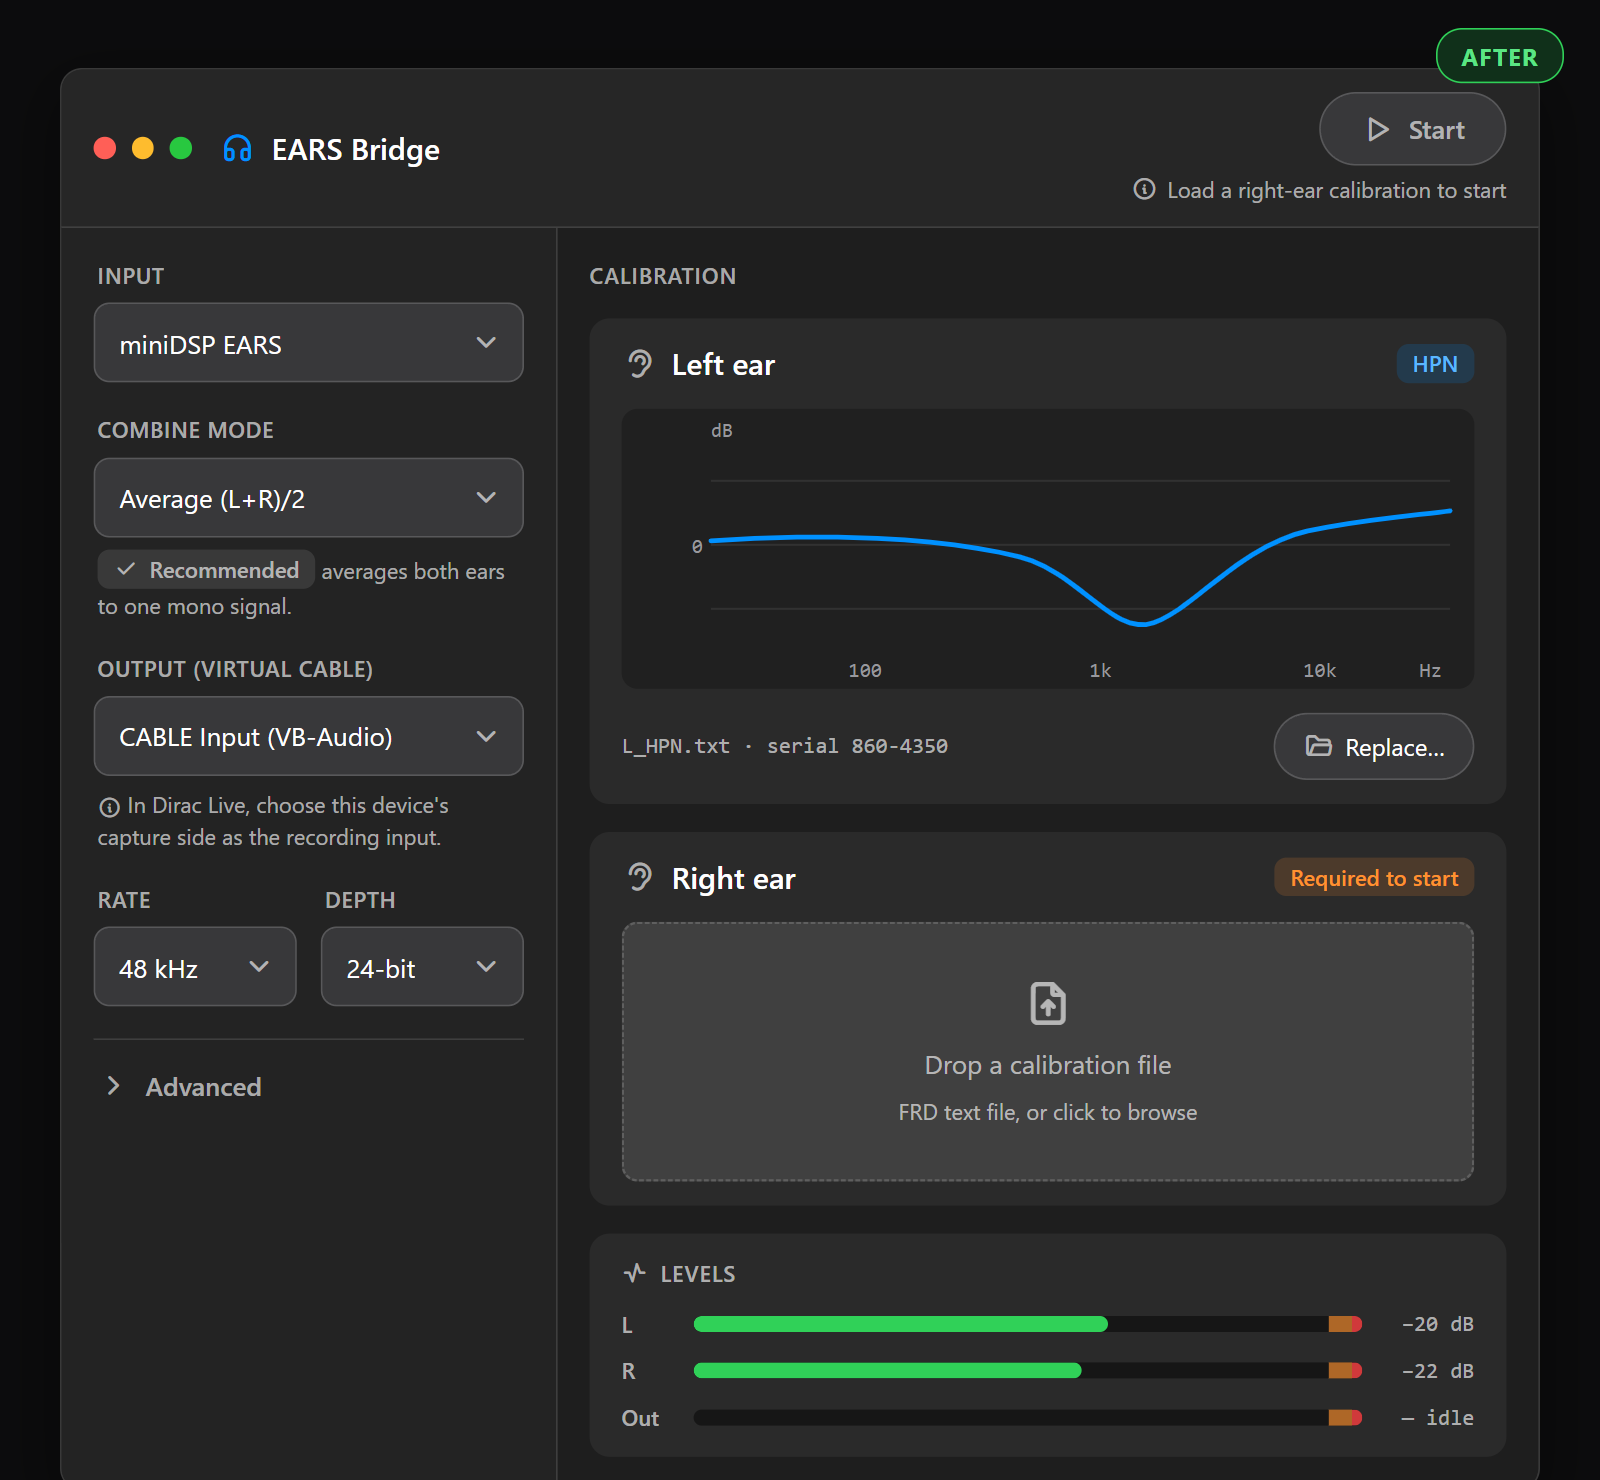
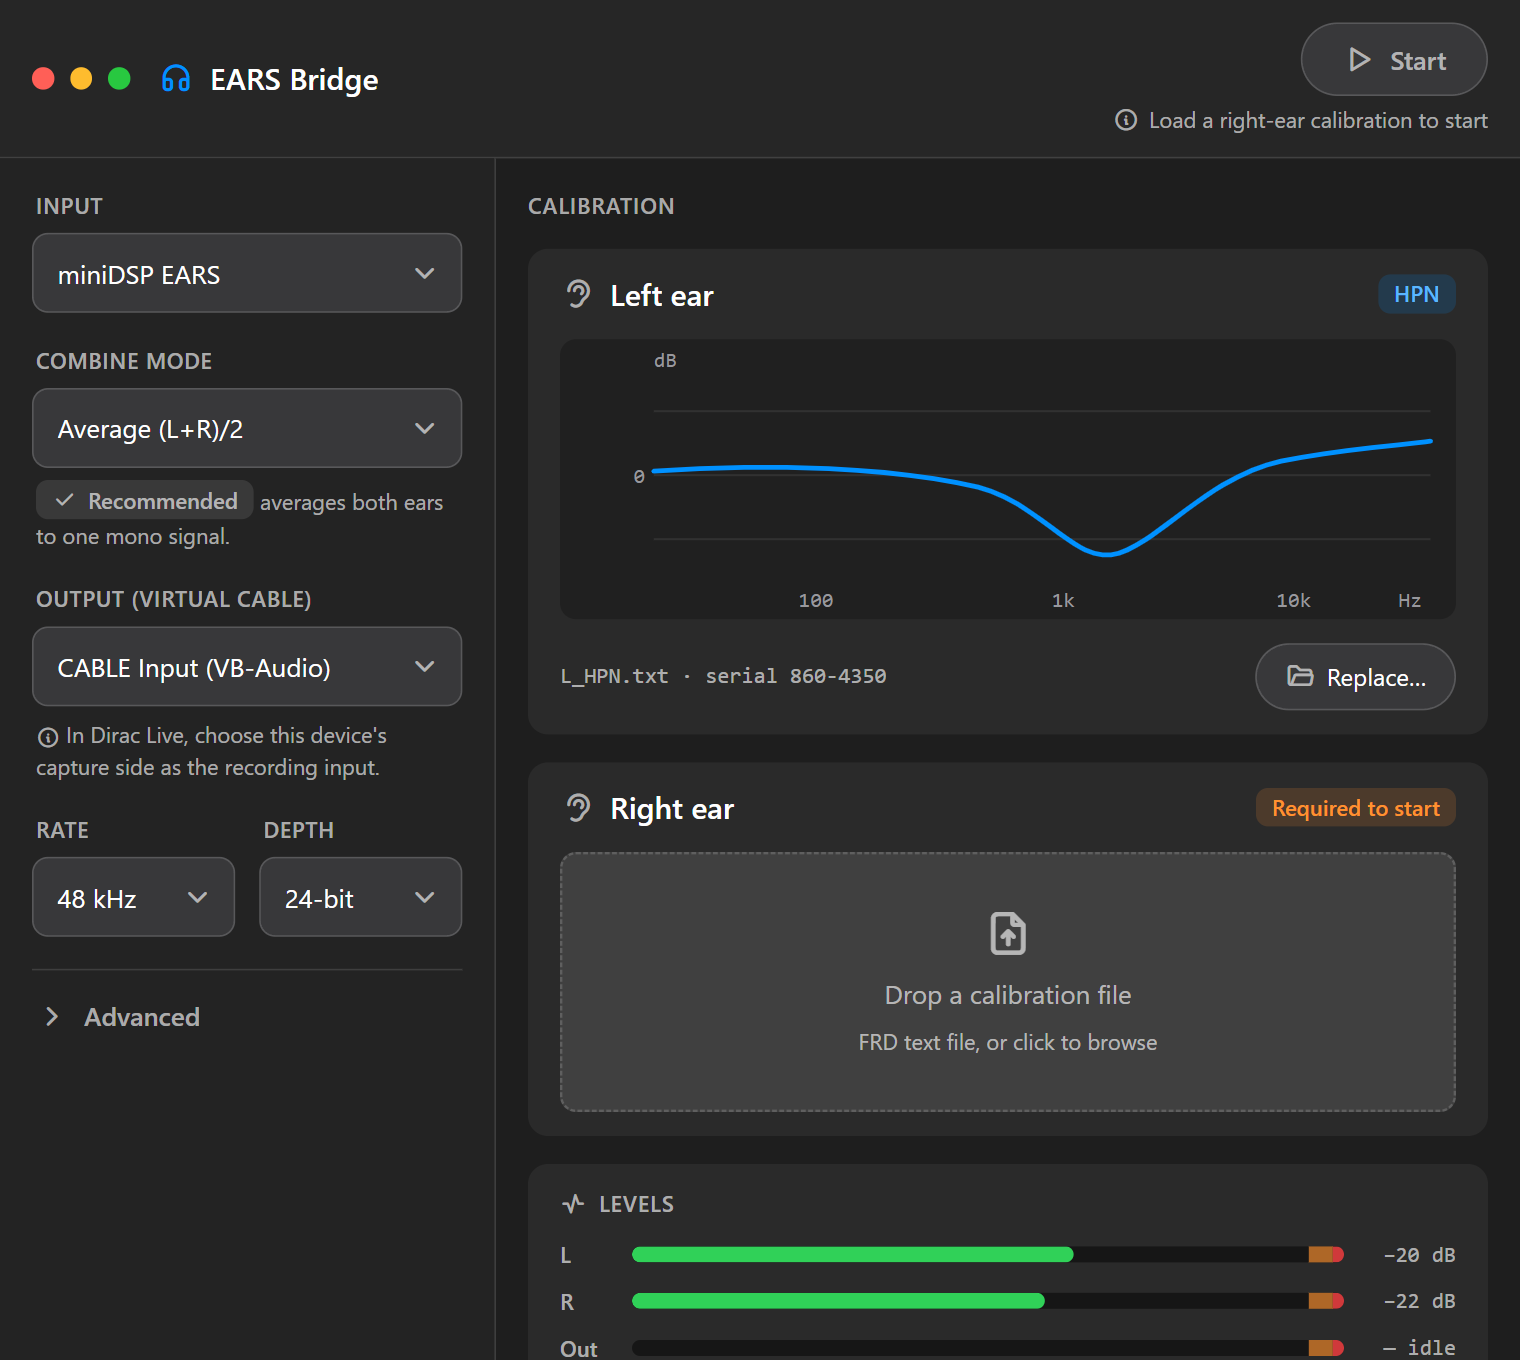
site: remove the dark frame/gutter around the demo app — re-render before/after edge-to-edge so the app fills the rounded slider, labels as overlays, GIF rebuilt; cache-bust images

diff --git a/docs/mockups/frames.html b/docs/mockups/frames.html
@@ -4,18 +4,15 @@
 <style>
   :root{ font-family:-apple-system,BlinkMacSystemFont,"Segoe UI",Roboto,Helvetica,Arial,sans-serif; }
   *{ box-sizing:border-box; margin:0; padding:0; }
-  body{ background:#0c0c0d; display:flex; }
-  .cell{ width:800px; height:740px; position:relative; overflow:hidden; flex-shrink:0; display:flex; justify-content:center; align-items:flex-start; padding-top:34px; }
-  .fpill{ position:absolute; top:14px; left:18px; z-index:5; font-size:12px; font-weight:700; letter-spacing:.5px; padding:5px 12px; border-radius:13px; }
-  .fpill.before{ background:#3a1414; color:#ff8a80; border:1px solid #ff453a; }
-  .fpill.after{ background:#10301a; color:#5be584; border:1px solid #30d158; left:auto; right:18px; }
+  body{ display:flex; }
+  .cell{ width:760px; height:680px; position:relative; overflow:hidden; flex-shrink:0; }
 
-  /* BEFORE app */
-  .win{ width:740px; border-radius:11px; overflow:hidden; box-shadow:0 10px 30px rgba(0,0,0,.4); }
-  .b .bar{ height:36px; display:flex; align-items:center; padding:0 12px; background:#2b2b2b; color:#cfcfcf; font-size:13px; }
+  /* BEFORE app — fills the cell edge to edge */
+  .b{ width:760px; height:680px; display:flex; flex-direction:column; background:#1a1a1a; }
+  .b .bar{ height:36px; display:flex; align-items:center; padding:0 14px; background:#2b2b2b; color:#cfcfcf; font-size:13px; flex-shrink:0; }
   .b .bar .ico{ width:15px; height:15px; border-radius:4px; margin-right:8px; background:#3a3a3a; }
   .b .winctl{ margin-left:auto; color:#9a9a9a; letter-spacing:6px; }
-  .b .body{ background:#1a1a1a; padding:16px 18px 18px; color:#cfcfcf; }
+  .b .body{ flex:1; background:#1a1a1a; padding:16px 20px 18px; color:#cfcfcf; }
   .b .lbl{ font-size:10.5px; letter-spacing:.6px; color:#6f6f6f; margin:13px 0 6px; text-transform:uppercase; }
   .b .lbl:first-child{ margin-top:0; }
   .b .ddl{ background:#222; border:1px solid #2c2c2c; border-radius:5px; height:36px; display:flex; align-items:center; padding:0 12px; color:#cdcdcd; font-size:13.5px; }
@@ -39,24 +36,24 @@
   .b .adv{ font-size:12.5px; color:#9a9a9a; margin-top:13px; }
   .curve{ display:block; }
 
-  /* AFTER app (prototype, dark, static) */
-  .eb-stage{
+  /* AFTER app (prototype, dark) — fills the cell edge to edge */
+  .eb{
     --bg:#1E1E1E; --surface:#2A2A2A; --rail:#232323; --ctrl:#38383A; --bar:#262626; --plot:#202020;
     --track:#161616; --grid:rgba(255,255,255,.08); --chip-bg:rgba(255,255,255,.10); --info-tx:#5AB7FF; --info-bg:rgba(0,145,255,.16);
     --sep:rgba(255,255,255,.12); --sep2:rgba(255,255,255,.16);
     --tx:#FFFFFF; --tx2:rgba(255,255,255,.62); --axis:#98989D;
     --accent:#0091FF; --ok:#30D158; --warn:#FF9230; --err:#FF4245;
-    --sans:-apple-system,"SF Pro Text","Segoe UI",system-ui,Roboto,sans-serif; --mono:"SF Mono","Consolas",ui-monospace,monospace; width:740px; }
-  .eb{ background:var(--bg); color:var(--tx); font-family:var(--sans); font-size:13px; line-height:1.4; border:1px solid var(--sep); border-radius:11px; overflow:hidden; box-shadow:0 10px 30px rgba(0,0,0,.4); }
+    --sans:-apple-system,"SF Pro Text","Segoe UI",system-ui,Roboto,sans-serif; --mono:"SF Mono","Consolas",ui-monospace,monospace;
+    width:760px; height:680px; display:flex; flex-direction:column; background:var(--bg); color:var(--tx); font-family:var(--sans); font-size:13px; line-height:1.4; }
   .eb *{ box-sizing:border-box; margin:0; }
-  .eb-bar{ display:flex; align-items:center; gap:10px; padding:11px 16px; background:var(--bar); border-bottom:1px solid var(--sep); }
+  .eb-bar{ display:flex; align-items:center; gap:10px; padding:11px 16px; background:var(--bar); border-bottom:1px solid var(--sep); flex-shrink:0; }
   .eb-dots{ display:flex; gap:8px; } .eb-dots i{ width:11px; height:11px; border-radius:50%; }
   .eb-brand{ display:flex; align-items:center; gap:8px; font-size:15px; font-weight:600; margin-left:4px; } .eb-brand .ti{ color:var(--accent); font-size:18px; }
   .eb-spacer{ flex:1; }
   .eb-xport{ display:flex; flex-direction:column; align-items:flex-end; gap:4px; }
   .eb-primary{ display:inline-flex; align-items:center; gap:8px; font:600 13px var(--sans); color:var(--tx2); background:var(--ctrl); border:1px solid var(--sep2); border-radius:999px; padding:9px 20px; } .eb-primary .ti{ font-size:16px; }
   .eb-xport-note{ display:inline-flex; align-items:center; gap:5px; font-size:11px; color:var(--tx2); } .eb-xport-note .ti{ font-size:13px; }
-  .eb-two{ display:grid; grid-template-columns:248px 1fr; }
+  .eb-two{ flex:1; display:grid; grid-template-columns:248px 1fr; }
   .eb-rail{ padding:16px; border-right:1px solid var(--sep); display:flex; flex-direction:column; gap:16px; background:var(--rail); }
   .eb-pane{ padding:16px; display:flex; flex-direction:column; gap:14px; }
   .eb-eyebrow{ font-size:11px; font-weight:600; letter-spacing:.04em; color:var(--tx2); text-transform:uppercase; }
@@ -87,10 +84,8 @@
   .eb-axis{ font-family:var(--mono); font-size:10px; fill:var(--axis); }
 </style></head>
 <body>
-  <!-- BEFORE frame -->
   <div class="cell">
-    <span class="fpill before">BEFORE</span>
-    <div class="win b">
+    <div class="b">
       <div class="bar"><span class="ico"></span>EARS Bridge<span class="winctl">&#9472; &#9633; &#10005;</span></div>
       <div class="body">
         <div class="lbl">Input (EARS)</div>
@@ -123,54 +118,50 @@
     </div>
   </div>
 
-  <!-- AFTER frame -->
   <div class="cell">
-    <span class="fpill after">AFTER</span>
-    <div class="eb-stage">
-      <div class="eb">
-        <header class="eb-bar">
-          <span class="eb-dots"><i style="background:#ff5f57"></i><i style="background:#febc2e"></i><i style="background:#28c840"></i></span>
-          <span class="eb-brand"><i class="ti ti-headphones"></i>EARS Bridge</span>
-          <span class="eb-spacer"></span>
-          <div class="eb-xport"><button class="eb-primary"><i class="ti ti-player-play"></i><span>Start</span></button>
-            <span class="eb-xport-note"><i class="ti ti-info-circle"></i><span>Load a right-ear calibration to start</span></span></div>
-        </header>
-        <div class="eb-two">
-          <div class="eb-rail">
-            <div><label class="eb-field-l">Input</label><div class="eb-selwrap"><select><option>miniDSP EARS</option></select><i class="ti ti-chevron-down chev"></i></div></div>
-            <div><label class="eb-field-l">Combine mode</label><div class="eb-selwrap"><select><option>Average (L+R)/2</option></select><i class="ti ti-chevron-down chev"></i></div>
-              <p class="eb-help"><span class="eb-rec"><i class="ti ti-check"></i>Recommended</span> averages both ears to one mono signal.</p></div>
-            <div><label class="eb-field-l">Output (virtual cable)</label><div class="eb-selwrap"><select><option>CABLE Input (VB-Audio)</option></select><i class="ti ti-chevron-down chev"></i></div>
-              <p class="eb-help"><i class="ti ti-info-circle"></i>In Dirac Live, choose this device&#39;s capture side as the recording input.</p></div>
-            <div class="eb-row2">
-              <div><label class="eb-field-l">Rate</label><div class="eb-selwrap"><select><option>48 kHz</option></select><i class="ti ti-chevron-down chev"></i></div></div>
-              <div><label class="eb-field-l">Depth</label><div class="eb-selwrap"><select><option>24-bit</option></select><i class="ti ti-chevron-down chev"></i></div></div>
-            </div>
-            <button class="eb-disc"><i class="ti ti-chevron-right"></i>Advanced</button>
+    <div class="eb">
+      <header class="eb-bar">
+        <span class="eb-dots"><i style="background:#ff5f57"></i><i style="background:#febc2e"></i><i style="background:#28c840"></i></span>
+        <span class="eb-brand"><i class="ti ti-headphones"></i>EARS Bridge</span>
+        <span class="eb-spacer"></span>
+        <div class="eb-xport"><button class="eb-primary"><i class="ti ti-player-play"></i><span>Start</span></button>
+          <span class="eb-xport-note"><i class="ti ti-info-circle"></i><span>Load a right-ear calibration to start</span></span></div>
+      </header>
+      <div class="eb-two">
+        <div class="eb-rail">
+          <div><label class="eb-field-l">Input</label><div class="eb-selwrap"><select><option>miniDSP EARS</option></select><i class="ti ti-chevron-down chev"></i></div></div>
+          <div><label class="eb-field-l">Combine mode</label><div class="eb-selwrap"><select><option>Average (L+R)/2</option></select><i class="ti ti-chevron-down chev"></i></div>
+            <p class="eb-help"><span class="eb-rec"><i class="ti ti-check"></i>Recommended</span> averages both ears to one mono signal.</p></div>
+          <div><label class="eb-field-l">Output (virtual cable)</label><div class="eb-selwrap"><select><option>CABLE Input (VB-Audio)</option></select><i class="ti ti-chevron-down chev"></i></div>
+            <p class="eb-help"><i class="ti ti-info-circle"></i>In Dirac Live, choose this device&#39;s capture side as the recording input.</p></div>
+          <div class="eb-row2">
+            <div><label class="eb-field-l">Rate</label><div class="eb-selwrap"><select><option>48 kHz</option></select><i class="ti ti-chevron-down chev"></i></div></div>
+            <div><label class="eb-field-l">Depth</label><div class="eb-selwrap"><select><option>24-bit</option></select><i class="ti ti-chevron-down chev"></i></div></div>
           </div>
-          <div class="eb-pane">
-            <h2 class="eb-eyebrow">Calibration</h2>
-            <section class="eb-card">
-              <div class="eb-card-h"><i class="ti ti-ear"></i><h3 class="name">Left ear</h3><span class="eb-spacer"></span><span class="eb-info">HPN</span></div>
-              <svg class="eb-plot" viewBox="0 0 420 140" preserveAspectRatio="none" role="img" aria-label="Left ear response">
-                <line x1="44" y1="36" x2="408" y2="36" stroke="var(--grid)"/><line x1="44" y1="68" x2="408" y2="68" stroke="var(--grid)"/><line x1="44" y1="100" x2="408" y2="100" stroke="var(--grid)"/>
-                <path d="M44 66 C 100 62, 156 64, 196 74 C 226 82, 242 114, 262 107 C 282 100, 304 69, 338 61 C 372 54, 396 53, 408 51" fill="none" stroke="var(--accent)" stroke-width="2.4" stroke-linejoin="round" stroke-linecap="round"/>
-                <text class="eb-axis" x="44" y="14">dB</text><text class="eb-axis" x="40" y="72" text-anchor="end">0</text>
-                <text class="eb-axis" x="120" y="134" text-anchor="middle">100</text><text class="eb-axis" x="236" y="134" text-anchor="middle">1k</text><text class="eb-axis" x="344" y="134" text-anchor="middle">10k</text><text class="eb-axis" x="404" y="134" text-anchor="end">Hz</text>
-              </svg>
-              <div class="eb-meta"><span class="eb-fname">L_HPN.txt · serial 860-4350</span><button class="eb-btn"><i class="ti ti-folder-open"></i>Replace…</button></div>
-            </section>
-            <section class="eb-card">
-              <div class="eb-card-h"><i class="ti ti-ear"></i><h3 class="name">Right ear</h3><span class="eb-spacer"></span><span class="eb-req">Required to start</span></div>
-              <button class="eb-drop"><i class="ti ti-file-upload"></i><span>Drop a calibration file</span><span class="d2">FRD text file, or click to browse</span></button>
-            </section>
-            <section class="eb-monitor">
-              <h3 class="eb-mhead"><i class="ti ti-activity" style="font-size:13px"></i>Levels</h3>
-              <div class="eb-meter"><span class="ml">L</span><div class="eb-mtrack"><div class="eb-zamber"></div><div class="eb-zred"></div><div class="eb-mfill" style="width:62%"></div></div><span class="eb-mdb">−20 dB</span></div>
-              <div class="eb-meter"><span class="ml">R</span><div class="eb-mtrack"><div class="eb-zamber"></div><div class="eb-zred"></div><div class="eb-mfill" style="width:58%"></div></div><span class="eb-mdb">−22 dB</span></div>
-              <div class="eb-meter"><span class="ml">Out</span><div class="eb-mtrack"><div class="eb-zamber"></div><div class="eb-zred"></div><div class="eb-mfill" style="width:0"></div></div><span class="eb-mdb">— idle</span></div>
-            </section>
-          </div>
+          <button class="eb-disc"><i class="ti ti-chevron-right"></i>Advanced</button>
+        </div>
+        <div class="eb-pane">
+          <h2 class="eb-eyebrow">Calibration</h2>
+          <section class="eb-card">
+            <div class="eb-card-h"><i class="ti ti-ear"></i><h3 class="name">Left ear</h3><span class="eb-spacer"></span><span class="eb-info">HPN</span></div>
+            <svg class="eb-plot" viewBox="0 0 420 140" preserveAspectRatio="none" role="img" aria-label="Left ear response">
+              <line x1="44" y1="36" x2="408" y2="36" stroke="var(--grid)"/><line x1="44" y1="68" x2="408" y2="68" stroke="var(--grid)"/><line x1="44" y1="100" x2="408" y2="100" stroke="var(--grid)"/>
+              <path d="M44 66 C 100 62, 156 64, 196 74 C 226 82, 242 114, 262 107 C 282 100, 304 69, 338 61 C 372 54, 396 53, 408 51" fill="none" stroke="var(--accent)" stroke-width="2.4" stroke-linejoin="round" stroke-linecap="round"/>
+              <text class="eb-axis" x="44" y="14">dB</text><text class="eb-axis" x="40" y="72" text-anchor="end">0</text>
+              <text class="eb-axis" x="120" y="134" text-anchor="middle">100</text><text class="eb-axis" x="236" y="134" text-anchor="middle">1k</text><text class="eb-axis" x="344" y="134" text-anchor="middle">10k</text><text class="eb-axis" x="404" y="134" text-anchor="end">Hz</text>
+            </svg>
+            <div class="eb-meta"><span class="eb-fname">L_HPN.txt · serial 860-4350</span><button class="eb-btn"><i class="ti ti-folder-open"></i>Replace…</button></div>
+          </section>
+          <section class="eb-card">
+            <div class="eb-card-h"><i class="ti ti-ear"></i><h3 class="name">Right ear</h3><span class="eb-spacer"></span><span class="eb-req">Required to start</span></div>
+            <button class="eb-drop"><i class="ti ti-file-upload"></i><span>Drop a calibration file</span><span class="d2">FRD text file, or click to browse</span></button>
+          </section>
+          <section class="eb-monitor">
+            <h3 class="eb-mhead"><i class="ti ti-activity" style="font-size:13px"></i>Levels</h3>
+            <div class="eb-meter"><span class="ml">L</span><div class="eb-mtrack"><div class="eb-zamber"></div><div class="eb-zred"></div><div class="eb-mfill" style="width:62%"></div></div><span class="eb-mdb">−20 dB</span></div>
+            <div class="eb-meter"><span class="ml">R</span><div class="eb-mtrack"><div class="eb-zamber"></div><div class="eb-zred"></div><div class="eb-mfill" style="width:58%"></div></div><span class="eb-mdb">−22 dB</span></div>
+            <div class="eb-meter"><span class="ml">Out</span><div class="eb-mtrack"><div class="eb-zamber"></div><div class="eb-zred"></div><div class="eb-mfill" style="width:0"></div></div><span class="eb-mdb">— idle</span></div>
+          </section>
         </div>
       </div>
     </div>

diff --git a/docs/index.html b/docs/index.html
@@ -71,14 +71,14 @@
   .shot img{width:100%;height:auto;border-radius:var(--r);border:1px solid var(--border);box-shadow:var(--shadow)}
   .shot figcaption{color:var(--text2);font-size:14px;text-align:center;margin-top:14px}
   /* before/after slider */
-  .ba{position:relative;max-width:880px;margin:8px auto 0;border-radius:var(--r);overflow:hidden;border:1px solid var(--border);box-shadow:var(--shadow);aspect-ratio:1600/1480;background:#0c0c0d;--pos:50%;touch-action:none}
+  .ba{position:relative;max-width:880px;margin:8px auto 0;border-radius:var(--r);overflow:hidden;border:1px solid var(--border);box-shadow:var(--shadow);aspect-ratio:1520/1360;background:#0c0c0d;--pos:50%;touch-action:none}
   .ba-base,.ba-top{position:absolute;inset:0;width:100%;height:100%;object-fit:cover;display:block}
   .ba-top{clip-path:inset(0 calc(100% - var(--pos)) 0 0)}
   .ba-line{position:absolute;top:0;bottom:0;left:var(--pos);width:2px;background:#fff;transform:translateX(-1px);pointer-events:none}
   .ba-grip{position:absolute;top:50%;left:50%;transform:translate(-50%,-50%);width:40px;height:40px;border-radius:50%;background:#fff;color:#1d1d1f;display:grid;place-items:center;font-size:18px;box-shadow:0 2px 10px rgba(0,0,0,.45)}
-  .ba-tag{position:absolute;top:12px;font-size:12px;font-weight:700;letter-spacing:.4px;padding:4px 11px;border-radius:11px;color:#fff;pointer-events:none}
-  .ba-tagB{left:12px;background:rgba(255,69,58,.9)}
-  .ba-tagA{right:12px;background:rgba(48,209,88,.9)}
+  .ba-tag{position:absolute;font-size:12px;font-weight:700;letter-spacing:.4px;padding:4px 11px;border-radius:11px;color:#fff;pointer-events:none}
+  .ba-tagB{left:12px;top:12px;background:rgba(255,69,58,.92)}
+  .ba-tagA{right:12px;bottom:12px;background:rgba(48,209,88,.92)}
   .ba-range{position:absolute;inset:0;width:100%;height:100%;margin:0;opacity:0;cursor:ew-resize}
   .ba-range:focus-visible + .ba-line .ba-grip{outline:3px solid var(--accent);outline-offset:2px}
 
@@ -152,8 +152,10 @@
 
   <figure class="shot">
     <div class="ba" style="--pos:50%">
-      <img class="ba-base" src="after.png" alt="EARS Bridge redesigned to Apple's macOS HIG: a config rail, calibration cards, a Start gated until ready, and labeled level meters.">
-      <img class="ba-top" src="before.png" alt="EARS Bridge before: dim low-contrast labels, a cramped layout, a raw error, and empty meters.">
+      <img class="ba-base" src="after.png?v=2" alt="EARS Bridge redesigned to Apple's macOS HIG: a config rail, calibration cards, a Start gated until ready, and labeled level meters.">
+      <img class="ba-top" src="before.png?v=2" alt="EARS Bridge before: dim low-contrast labels, a cramped layout, a raw error, and empty meters.">
+      <span class="ba-tag ba-tagB">Before</span>
+      <span class="ba-tag ba-tagA">After</span>
       <div class="ba-line"><div class="ba-grip">⟺</div></div>
       <input class="ba-range" type="range" min="0" max="100" value="50" aria-label="Drag to compare before and after">
     </div>

diff --git a/README.md b/README.md
@@ -6,7 +6,7 @@ A Claude Code plugin that makes Claude design and review user interfaces accordi
 Interface Guidelines (HIG), automatically choosing the correct platform scope — iOS, iPadOS, macOS,
 watchOS, tvOS, or visionOS — for whatever is being built.
 
-![Before and after apple-hig: a real desktop app (EARS Bridge). The "before" has dim low-contrast labels, a cramped layout, an alarming raw error, and empty unreadable meters. The "after", redesigned to Apple's macOS HIG, has semantic colors at 4.5:1+ contrast, a clear grouped hierarchy, a calm plain-language status banner, readable labeled level meters, and an accent capsule action.](docs/before-after.gif)
+![Before and after apple-hig: a real desktop app (EARS Bridge). The "before" has dim low-contrast labels, a cramped layout, an alarming raw error, and empty unreadable meters. The "after", redesigned to Apple's macOS HIG, has semantic colors at 4.5:1+ contrast, a clear grouped hierarchy, a calm plain-language status banner, readable labeled level meters, and an accent capsule action.](docs/before-after.gif?v=2)
 
 **Website:** <https://elevatormusic.github.io/apple-hig/>  ·  **Try the "after" live:** [interactive redesign](https://elevatormusic.github.io/apple-hig/prototype.html)  ·  *(both designed with the plugin)*
 